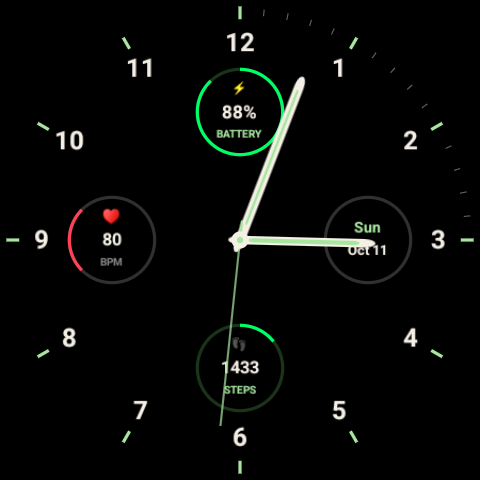
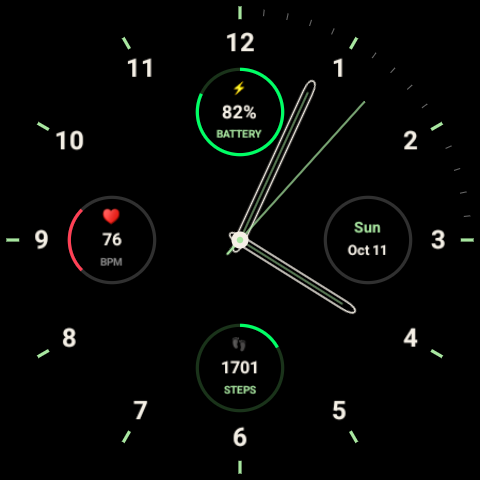
Refine watch hands and document rendering hierarchy

diff --git a/docs/clock-hand-rendering-hierarchy.md b/docs/clock-hand-rendering-hierarchy.md
@@ -1,0 +1,59 @@
+# Clock-Hand Rendering Hierarchy & Complication Masking Report
+
+## Overview
+This document details the architectural rendering hierarchy reorganization implemented in **`watchface/src/main/res/raw/watchface.xml`** for the **Pixel Watch 5 (45 mm)** Watch Face Format (WFF v2) project.
+
+Previously, clock hands rendered on top of complication slots, causing the minute and second hands to cross over and obscure complication text (e.g. date string "Oct 11" and step count).
+
+---
+
+## 1. Reorganized WFF Rendering Hierarchy
+
+In Watch Face Format (WFF v2), elements inside `<Scene>` render in **top-to-bottom XML sequence**. Elements declared later in the XML render on top of earlier elements.
+
+The XML structure has been reorganized into four distinct rendering layers:
+
+```
++-------------------------------------------------------------------+
+| LAYER 4: CENTER CAP / HUB                                         |
+| Group name="center_cap" (217, 217)                                |
++-------------------------------------------------------------------+
+| LAYER 3: COMPLICATION SLOTS (With Opaque OLED Black Disc)         |
+| Slot 1 (Battery), Slot 2 (Date), Slot 3 (Steps), Slot 4 (HR)      |
++-------------------------------------------------------------------+
+| LAYER 2: ANALOG CLOCK HANDS                                       |
+| AnalogClock -> HourHand, MinuteHand, SecondHand                   |
++-------------------------------------------------------------------+
+| LAYER 1: DIAL BACKGROUND & MARKERS                                |
+| Major/Minor Ticks, Hour Numerals (1..12)                          |
++-------------------------------------------------------------------+
+```
+
+1. **Layer 1 (Dial Background & Markers):** Major ticks (`#A8E6A0`), minor ticks (`#666666`), and traditional hour numerals 1..12 (`#F5F0E6`).
+2. **Layer 2 (Analog Clock Hands):** `<AnalogClock>` containing `<HourHand>`, `<MinuteHand>`, and `<SecondHand>`. Hands sweep above the dial background but **underneath** the complication slots.
+3. **Layer 3 (Opaque Complication Slots):**
+   Each `<ComplicationSlot>` and `<Complication type="...">` block begins with an **opaque `#000000` black disc**:
+   ```xml
+   <PartDraw x="0" y="0" width="90" height="90">
+       <Ellipse x="5" y="5" width="80" height="80">
+           <Fill color="#000000" />
+       </Ellipse>
+   </PartDraw>
+   ```
+   This disc masks out the clock hand segment passing behind the complication slot while maintaining the pure OLED black background. The track/border (`#1A331A` / `#303030`), progress arcs (`#00FF66`), icons, and text render on top of the black disc.
+4. **Layer 4 (Center Pivot Cap):** `<Group name="center_cap">` renders on top at `(225, 225)`.
+
+---
+
+## 2. Exact XML Modifications (`watchface/src/main/res/raw/watchface.xml`)
+
+1. **Moved `<AnalogClock>`:** Relocated from line ~635 to immediately follow the hour numerals (Layer 2), before the `<ComplicationSlot>` elements.
+2. **Moved `<Group name="center_cap">`:** Positioned as the final element in `<Scene>` (Layer 4) to ensure the dual-ring hub remains visible above hands.
+3. **Added Opaque Masking Discs:** Added `<Ellipse x="5" y="5" width="80" height="80"><Fill color="#000000" /></Ellipse>` inside `PartDraw x="0" y="0" width="90" height="90"` across all `RANGED_VALUE`, `GOAL_PROGRESS`, `SHORT_TEXT`, and `EMPTY` complication branches across slots 1, 2, 3, and 4.
+
+---
+
+## 3. Preserved Properties
+- **Hand Geometry, Pivots & Rotation:** Preserved `hour_hand.xml`, `minute_hand.xml`, `second_hand.xml`, vector dimensions, pivots, and rotation centers `(225.0, 225.0)`.
+- **Complication Expressions & Data Providers:** Preserved dynamic `[BATTERY_PERCENT]` and `[STEP_COUNT]` formulas, `[DAY_OF_WEEK_S]` / `[MONTH_S] [DAY]` date formatting, and system provider bindings.
+- **Colors & Styling:** Preserved warm ivory (`#F5F0E6`), mint green (`#A8E6A0`), charcoal (`#303030`), red accent (`#FF4055`), and OLED black (`#000000`).

diff --git a/docs/clock-hand-skeleton-refinement.md b/docs/clock-hand-skeleton-refinement.md
@@ -1,0 +1,49 @@
+# Skeleton Clock-Hand Refinement Report
+
+## Overview
+This document details the skeletonized clock-hand visual refinement pass implemented on the **Pixel Watch 5 (45 mm)** custom Watch Face Format (WFF v2) project.
+
+In previous iterations, rendering clock hands behind opaque complication discs made the hands appear disconnected when passing behind the complication circles. To restore visual continuity across the entire 450x450 dial, the clock hands were redesigned as **skeletonized baton hands with thin warm ivory outlines and subtle mint-green axis lines**, and restored to render **on top of the complications**.
+
+---
+
+## 1. Vector Drawable Refinements
+
+### 1.1 Hour Hand (`watchface/src/main/res/drawable/hour_hand.xml`)
+- **Structure:**
+  - Outer warm ivory outline: `<path android:strokeColor="#F5F0E6" android:strokeWidth="1.5" android:pathData="..." />`
+  - Inner mint-green axis line: `<path android:strokeColor="#A8E6A0" android:strokeWidth="1.0" android:pathData="M10,22 L10,132" />`
+- **Visual Effect:** Visually heavy baton outline (`width="20"`) with a hollow interior. Complication numbers and text underneath remain 100% visible and readable through the open interior.
+
+### 1.2 Minute Hand (`watchface/src/main/res/drawable/minute_hand.xml`)
+- **Structure:**
+  - Outer warm ivory outline: `<path android:strokeColor="#F5F0E6" android:strokeWidth="1.5" android:pathData="..." />`
+  - Inner mint-green axis line: `<path android:strokeColor="#A8E6A0" android:strokeWidth="1.0" android:pathData="M7,18 L7,165" />`
+- **Visual Effect:** Narrower baton outline (`width="14"`) with a hollow interior, maintaining visual distinction from the hour hand.
+
+### 1.3 Second Hand (`watchface/src/main/res/drawable/second_hand.xml`)
+- Preserved single thin mint-green needle path (`width="4"`) with a counterbalance bulb. Hidden in Ambient mode.
+
+---
+
+## 2. Reorganized Rendering Order (`watchface/src/main/res/raw/watchface.xml`)
+
+1. **Removed Masking Discs:** Removed the opaque black filled ellipses from all complication slot type branches.
+2. **Restored Layer Hierarchy:**
+   - **Layer 1:** Dial Background, Tick Marks, and Numerals (1..12).
+   - **Layer 2:** Four Complication Slots (Battery, Date, Steps, Heart Rate).
+   - **Layer 3:** Analog Clock Hands (`<AnalogClock>`). Hands pass ON TOP of complications continuously.
+   - **Layer 4:** Center Pivot Cap (`<Group name="center_cap">`) at `(225, 225)`.
+
+---
+
+## 3. Vector Rendering Compatibility Notes
+- WFF v2 supports standard Android VectorDrawable stroke attributes (`android:strokeColor`, `android:strokeWidth`, `android:strokeLineCap`, `android:strokeLineJoin`).
+- Omitting `android:fillColor` defaults path fill to transparent, creating hollow skeletonized geometry that preserves underlying readability without obscuring text.
+
+---
+
+## 4. Build, Validation & Deployment Results
+- **Gradle Build Task:** `:watchface:installDebug` — **BUILD SUCCESSFUL (Exit Code 0)**.
+- **WFF XML Schema Analyzer:** **0 errors**.
+- **Deployment Status:** Successfully deployed and active on **Google Pixel Watch 5**.
